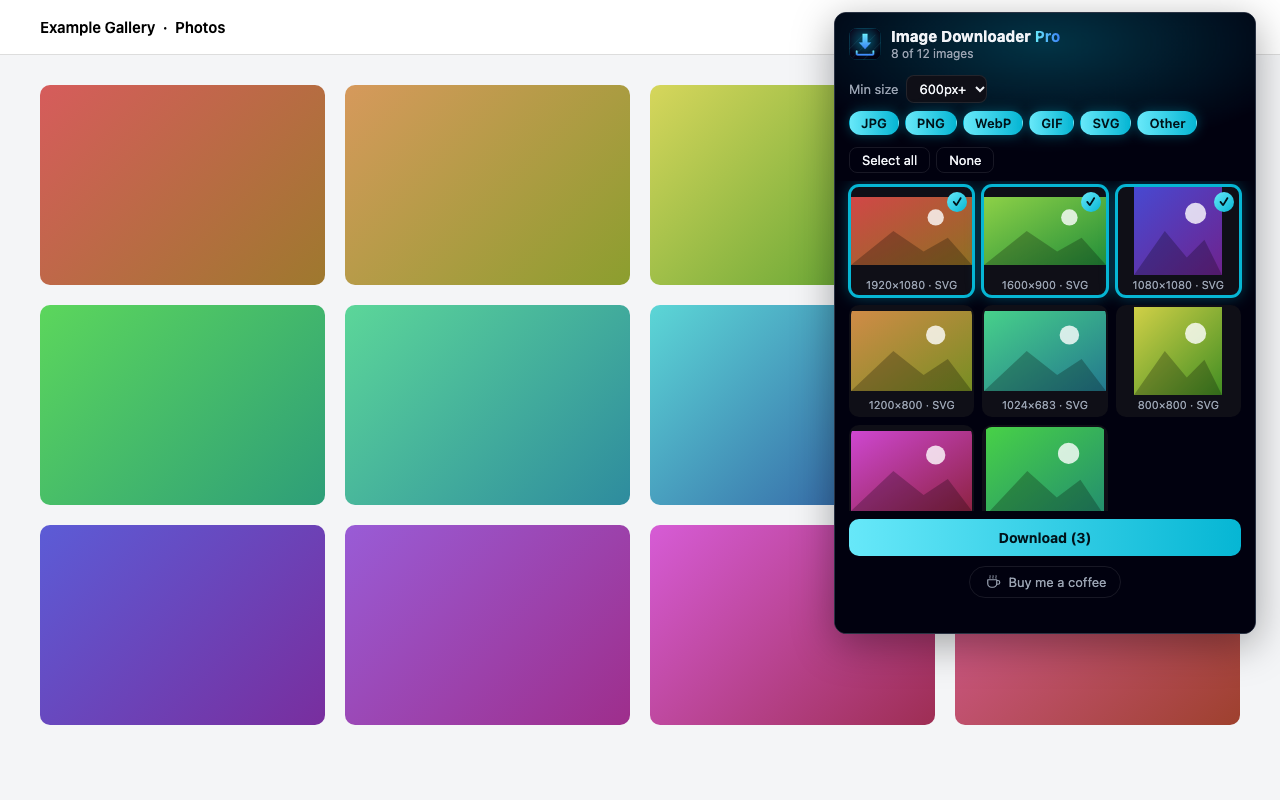
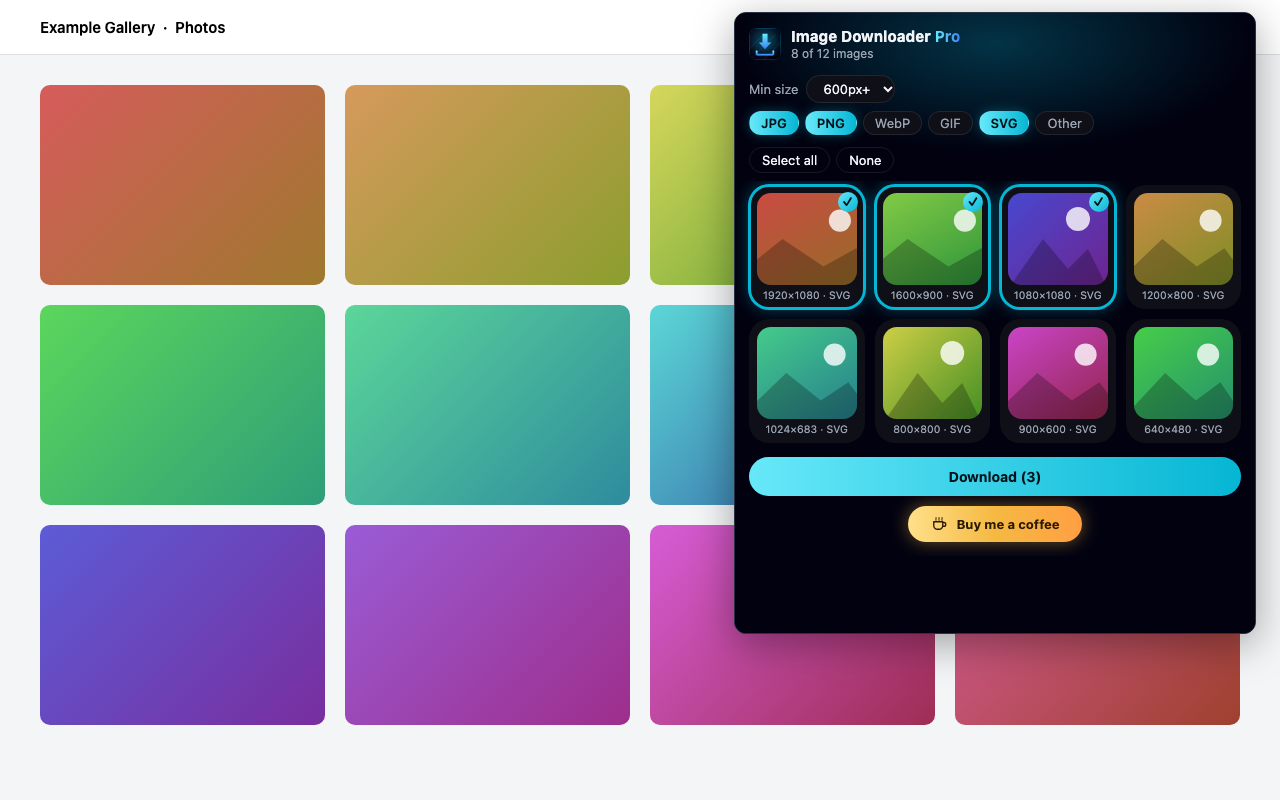
Final v1.1.0: 520px rounded UI, highlighted coffee button, aligned layout, updated screenshots and promo tile

Changed region(s): [[0.5625, 0.0, 1.0, 0.8125]]

diff --git a/extension/popup.css b/extension/popup.css
@@ -10,21 +10,26 @@
   --ease: cubic-bezier(.2, .7, .2, 1);
 }
 * { box-sizing: border-box; }
+html { margin: 0; width: 520px; overflow: hidden; }
 body {
-  position: relative; width: 420px; min-height: 220px; margin: 0; overflow: hidden;
+  position: relative; width: 520px; min-height: 220px; margin: 0; overflow: hidden;
   font: 13px system-ui, -apple-system, "Segoe UI", sans-serif;
   color: var(--text); background: var(--bg);
-  animation: pop .45s var(--ease) both;
+  transform-origin: top right; animation: open .28s cubic-bezier(.16, 1, .3, 1) both;
 }
 .glow {
-  position: absolute; inset: -80px -60px auto; height: 220px; pointer-events: none;
+  position: absolute; top: -80px; left: 0; right: 0; height: 220px; pointer-events: none;
   background: radial-gradient(closest-side, rgba(6, 182, 212, .28), transparent);
-  animation: drift 7s ease-in-out infinite alternate;
 }
-header, .filters, .bar, .scan, #grid, #empty, footer { position: relative; }
+header, .filters, .bar, .scan, #grid, #empty, footer { position: relative; animation: slide .25s ease-out both; }
+header { animation-delay: 30ms; }
+.filters { animation-delay: 70ms; }
+.bar { animation-delay: 110ms; }
+.scan, #grid, #empty { animation-delay: 150ms; }
+footer { animation-delay: 190ms; }
 
 header { display: flex; align-items: center; gap: 10px; padding: 14px 14px 6px; }
-.logo { border-radius: 8px; animation: float 3.5s ease-in-out infinite; }
+.logo { border-radius: 8px; }
 h1 { margin: 0; font-size: 15px; font-weight: 700; letter-spacing: .2px; }
 h1 span {
   background: linear-gradient(90deg, var(--accent-2), var(--blue));
@@ -36,14 +41,15 @@ h1 span {
 .size { display: flex; align-items: center; gap: 8px; color: var(--muted); }
 select {
   font: inherit; color: var(--text); background: var(--surface);
-  border: 1px solid var(--line); border-radius: 8px; padding: 4px 8px;
+  border: 1px solid var(--line); border-radius: 20px; padding: 4px 12px;
 }
 .chips { display: flex; flex-wrap: wrap; gap: 6px; }
+#grid { margin: 0; }
 .chip input { position: absolute; opacity: 0; pointer-events: none; }
 .chip span {
   display: inline-block; padding: 3px 11px; border-radius: 999px; cursor: pointer;
   color: var(--muted); border: 1px solid var(--line); background: var(--surface);
-  transition: all .2s var(--ease);
+  transition: all .12s ease-out;
 }
 .chip:hover span { border-color: var(--accent); color: var(--text); transform: translateY(-1px); }
 .chip input:checked + span {
@@ -57,89 +63,82 @@ select {
 button { font: inherit; cursor: pointer; }
 .ghost {
   padding: 4px 12px; color: var(--text); background: transparent;
-  border: 1px solid var(--line); border-radius: 8px; transition: all .2s var(--ease);
+  border: 1px solid var(--line); border-radius: 20px; transition: all .12s ease-out;
 }
 .ghost:hover { border-color: var(--accent); box-shadow: 0 0 10px rgba(6, 182, 212, .25); }
 
 /* scanning state */
 .scan {
-  display: grid; grid-template-columns: repeat(3, 1fr); gap: 8px;
-  margin: 0 14px; height: 200px; overflow: hidden; border-radius: 10px;
+  display: grid; grid-template-columns: repeat(4, 1fr); gap: 10px;
+  margin: 0 14px; height: 200px; overflow: hidden; border-radius: 20px;
 }
 .skeleton {
-  height: 92px; border-radius: 8px;
+  height: 92px; border-radius: 20px;
   background: linear-gradient(100deg, var(--surface) 30%, #1b2230 50%, var(--surface) 70%);
-  background-size: 200% 100%; animation: shimmer 1.2s linear infinite;
+  background-size: 200% 100%; animation: shimmer .8s linear infinite;
 }
 .scanline {
   position: absolute; left: 0; right: 0; height: 2px; z-index: 1;
   background: linear-gradient(90deg, transparent, var(--accent-2), transparent);
-  box-shadow: 0 0 14px var(--accent); animation: scan 1.4s ease-in-out infinite alternate;
+  box-shadow: 0 0 14px var(--accent); animation: scan .7s ease-in-out infinite alternate;
 }
 .scan[hidden], #grid[hidden], #empty[hidden] { display: none; }
 
 #grid {
-  display: grid; grid-template-columns: repeat(3, 1fr); gap: 8px;
+  display: grid; grid-template-columns: repeat(4, 1fr); gap: 10px;
   padding: 4px 14px 6px; max-height: 330px; overflow-y: auto;
-  scrollbar-width: thin; scrollbar-color: #2a3344 transparent;
+  scrollbar-width: none;
 }
+#grid::-webkit-scrollbar { display: none; }
 .item {
-  position: relative; border: 2px solid transparent; border-radius: 10px;
+  position: relative; border: 2px solid transparent; border-radius: 20px;
   background: var(--surface); cursor: pointer; overflow: hidden;
-  animation: rise .45s var(--ease) both; animation-delay: calc(var(--i, 0) * 35ms);
-  transition: transform .2s var(--ease), box-shadow .2s var(--ease), border-color .2s;
+  transition: transform .12s ease-out, box-shadow .12s ease-out, border-color .12s;
 }
 .item:hover { transform: translateY(-3px) scale(1.02); border-color: #ffffff2e; }
-.item img { display: block; width: 100%; height: 88px; object-fit: contain; transition: transform .35s var(--ease); }
+.item { padding: 6px 6px 0; }
+.item img { display: block; width: 100%; height: 92px; object-fit: cover; border-radius: 14px; transition: transform .15s ease-out; }
 .item:hover img { transform: scale(1.06); }
-.item .meta { font-size: 11px; color: var(--muted); padding: 3px 4px 4px; text-align: center; }
+.item .meta { font-size: 10.5px; color: var(--muted); padding: 4px 2px 6px; text-align: center; white-space: nowrap; overflow: hidden; text-overflow: ellipsis; }
 .item.selected { border-color: var(--accent); box-shadow: 0 0 0 1px var(--accent), 0 0 16px rgba(6, 182, 212, .4); }
 .item.selected::after {
   content: "✓"; position: absolute; top: 5px; right: 5px; width: 20px; height: 20px;
   border-radius: 50%; color: #00131a; font-weight: 700; font-size: 12px; text-align: center; line-height: 20px;
-  background: linear-gradient(135deg, var(--accent-2), var(--accent)); animation: tick .3s var(--ease);
+  background: linear-gradient(135deg, var(--accent-2), var(--accent));
 }
 #empty { padding: 28px 14px; color: var(--muted); text-align: center; }
 
 footer { display: flex; flex-direction: column; gap: 10px; padding: 8px 14px 14px; }
 #download {
-  position: relative; overflow: hidden; width: 100%; padding: 10px; border: 0; border-radius: 10px;
+  position: relative; overflow: hidden; width: 100%; padding: 11px; border: 0; border-radius: 20px;
   color: #00131a; font-weight: 700; font-size: 14px;
   background: linear-gradient(90deg, var(--accent-2), var(--accent), var(--blue));
-  background-size: 200% 100%; transition: transform .15s var(--ease), opacity .2s;
+  background-size: 200% 100%; transition: transform .1s ease-out, opacity .12s;
 }
 #download:disabled { opacity: .35; cursor: default; filter: grayscale(.4); }
-#download:not(:disabled) { animation: pulse 2.2s ease-in-out infinite, flow 4s linear infinite; }
 #download:not(:disabled):hover { transform: translateY(-1px); }
 #download:not(:disabled):active { transform: scale(.98); }
 #download .label { position: relative; z-index: 1; }
-#download .fill { position: absolute; inset: 0 auto 0 0; width: 0; background: #ffffff55; transition: width .25s linear; }
+#download .fill { position: absolute; inset: 0 auto 0 0; width: 0; background: #ffffff55; transition: width .12s linear; }
 
 .coffee {
-  align-self: center; display: inline-flex; align-items: center; gap: 7px; padding: 6px 14px;
-  color: var(--muted); text-decoration: none; border: 1px solid var(--line); border-radius: 999px;
-  transition: all .25s var(--ease);
+  align-self: center; display: inline-flex; align-items: center; gap: 8px; padding: 9px 22px;
+  color: #2a1a00; font-weight: 700; text-decoration: none; border-radius: 20px;
+  background: linear-gradient(90deg, #ffe08a, #f5b942, #ff9f43);
+  box-shadow: 0 0 18px rgba(245, 185, 66, .45);
+  transition: transform .12s ease-out, box-shadow .12s ease-out;
 }
-.coffee:hover, .coffee:focus-visible {
-  color: var(--text); border-color: #f5b942; box-shadow: 0 0 14px rgba(245, 185, 66, .3); transform: translateY(-1px);
-}
-.cup { fill: none; stroke: currentColor; stroke-width: 1.6; stroke-linecap: round; stroke-linejoin: round; }
-.coffee:hover .cup, .coffee:focus-visible .cup { stroke: #f5b942; }
-.steam { opacity: 0; animation: steam 2.4s ease-in-out infinite; }
-.s2 { animation-delay: .5s; } .s3 { animation-delay: 1s; }
+.coffee:hover, .coffee:focus-visible { transform: translateY(-1px); box-shadow: 0 0 26px rgba(245, 185, 66, .7); }
+.coffee:active { transform: scale(.98); }
+.coffee:focus-visible { outline: 2px solid #fff; outline-offset: 2px; }
+.cup { fill: none; stroke: currentColor; stroke-width: 1.8; stroke-linecap: round; stroke-linejoin: round; }
+.steam { opacity: .85; }
 
-@keyframes pop { from { opacity: 0; transform: translateY(8px) scale(.98); } }
-@keyframes rise { from { opacity: 0; transform: translateY(10px) scale(.94); } }
-@keyframes tick { from { transform: scale(0); } 70% { transform: scale(1.25); } }
+@keyframes open { from { opacity: 0; transform: translateY(-10px) scale(.94); } }
+@keyframes slide { from { opacity: 0; transform: translateY(8px); } }
 @keyframes shimmer { to { background-position: -200% 0; } }
 @keyframes scan { from { top: 0; } to { top: calc(100% - 2px); } }
-@keyframes drift { to { transform: translateX(40px) scale(1.15); } }
-@keyframes float { 50% { transform: translateY(-2px) rotate(-3deg); } }
-@keyframes pulse { 50% { box-shadow: 0 0 20px rgba(6, 182, 212, .55); } }
-@keyframes flow { to { background-position: -200% 0; } }
-@keyframes steam { 0% { opacity: 0; transform: translateY(2px); } 40% { opacity: .9; } 100% { opacity: 0; transform: translateY(-3px); } }
 
 @media (prefers-reduced-motion: reduce) {
   *, *::before, *::after { animation: none !important; transition: none !important; }
-  .steam { opacity: .6; }
 }

diff --git a/extension/popup.js b/extension/popup.js
@@ -68,8 +68,7 @@ function render() {
   list.forEach((i, idx) => {
     const d = document.createElement("div");
     d.className = "item" + (selected.has(i.url) ? " selected" : "");
-    d.style.setProperty("--i", Math.min(idx, 14));
-    const img = document.createElement("img");
+        const img = document.createElement("img");
     img.src = i.url;
     img.loading = "lazy";
     img.addEventListener("load", () => {
@@ -91,17 +90,8 @@ function render() {
   updateButton();
 }
 
-let countFrame;
 function countUp(shown, total) {
-  cancelAnimationFrame(countFrame);
-  const reduce = matchMedia("(prefers-reduced-motion: reduce)").matches;
-  const start = performance.now();
-  const step = (now) => {
-    const t = reduce ? 1 : Math.min(1, (now - start) / 500);
-    $("count").textContent = `${Math.round(shown * t)} of ${total} images`;
-    if (t < 1) countFrame = requestAnimationFrame(step);
-  };
-  countFrame = requestAnimationFrame(step);
+  $("count").textContent = `${shown} of ${total} images`;
 }
 
 const label = (i) => `${i.w && i.h ? `${i.w}×${i.h} · ` : ""}${i.type.toUpperCase()}`;

diff --git a/extension/popup.html b/extension/popup.html
@@ -42,8 +42,8 @@
 
   <div id="scan" class="scan" aria-hidden="true">
     <div class="scanline"></div>
-    <div class="skeleton"></div><div class="skeleton"></div><div class="skeleton"></div>
-    <div class="skeleton"></div><div class="skeleton"></div><div class="skeleton"></div>
+    <div class="skeleton"></div><div class="skeleton"></div><div class="skeleton"></div><div class="skeleton"></div>
+    <div class="skeleton"></div><div class="skeleton"></div><div class="skeleton"></div><div class="skeleton"></div>
   </div>
   <main id="grid" hidden></main>
   <p id="empty" hidden>No images found on this page.</p>
